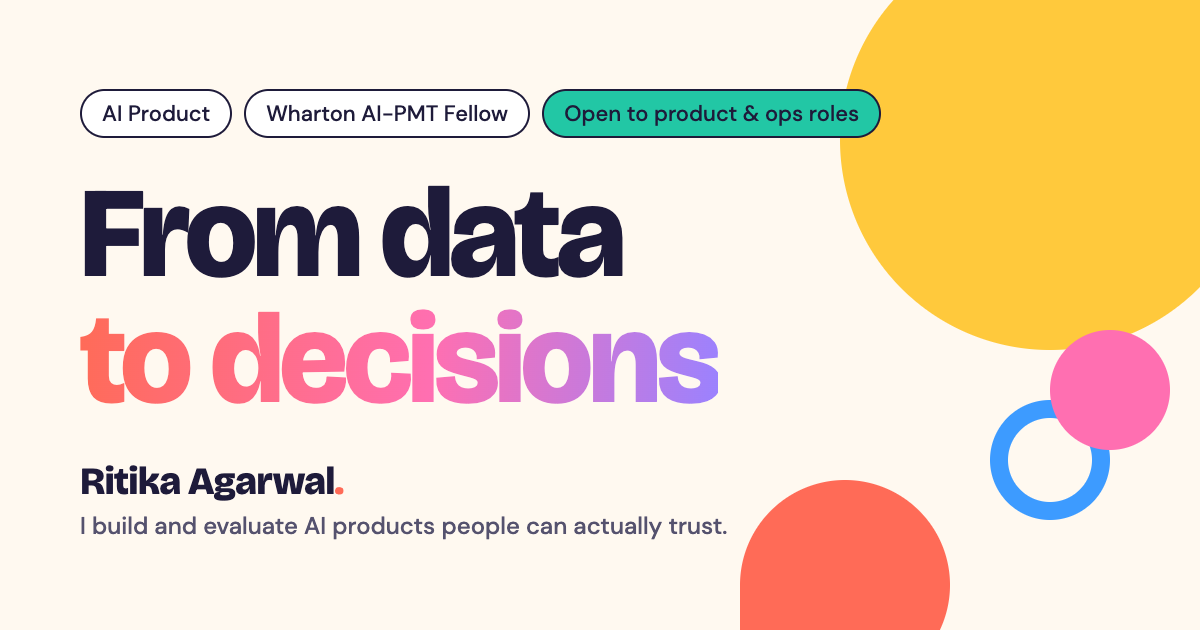
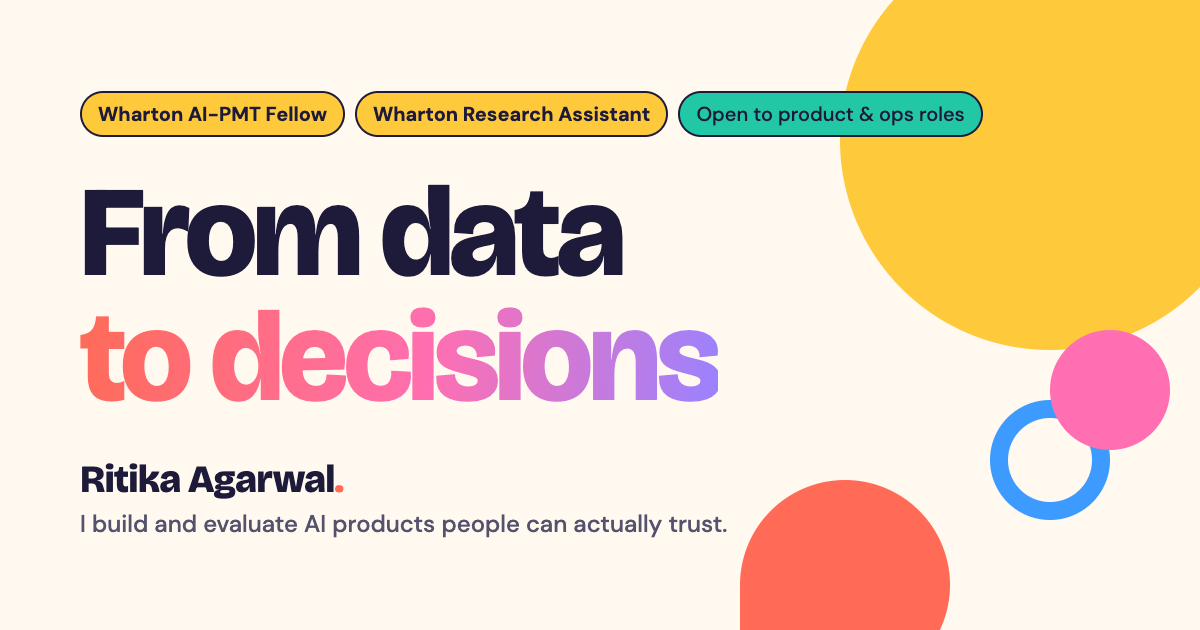
Highlight Wharton in hero tags; add Brand Guideline Scoring Harness project

diff --git a/index.html b/index.html
@@ -4,9 +4,9 @@
 <meta charset="UTF-8">
 <meta name="viewport" content="width=device-width, initial-scale=1.0">
 <title>Ritika Agarwal, From Data to Decisions</title>
-<meta name="description" content="I build and evaluate AI products, turning messy real-world data into tools people can actually trust. MSE student at Penn (CIS, AI), Wharton AI-PMT Fellow, and SIIM CAIMI26 Best Research Poster winner, with nearly 5 years at VMware and EY.">
+<meta name="description" content="I build and evaluate AI products, turning messy real-world data into tools people can actually trust. MSE student at Penn (CIS, AI), Wharton AI-PMT Fellow and Research Assistant, and SIIM CAIMI26 Best Research Poster winner, with nearly 5 years at VMware and EY.">
 <meta property="og:title" content="Ritika Agarwal, From Data to Decisions">
-<meta property="og:description" content="I build and evaluate AI products, turning messy real-world data into tools people can actually trust. MSE student at Penn (CIS, AI), Wharton AI-PMT Fellow, and SIIM CAIMI26 Best Research Poster winner, with nearly 5 years at VMware and EY.">
+<meta property="og:description" content="I build and evaluate AI products, turning messy real-world data into tools people can actually trust. MSE student at Penn (CIS, AI), Wharton AI-PMT Fellow and Research Assistant, and SIIM CAIMI26 Best Research Poster winner, with nearly 5 years at VMware and EY.">
 <meta property="og:url" content="https://riaga1998.github.io/">
 <meta property="og:type" content="website">
 <meta property="og:image" content="https://riaga1998.github.io/preview.png">
@@ -15,7 +15,7 @@
 <meta property="og:image:alt" content="Ritika Agarwal: From data to decisions">
 <meta name="twitter:card" content="summary_large_image">
 <meta name="twitter:title" content="Ritika Agarwal, From Data to Decisions">
-<meta name="twitter:description" content="I build and evaluate AI products, turning messy real-world data into tools people can actually trust. MSE student at Penn (CIS, AI), Wharton AI-PMT Fellow, and SIIM CAIMI26 Best Research Poster winner, with nearly 5 years at VMware and EY.">
+<meta name="twitter:description" content="I build and evaluate AI products, turning messy real-world data into tools people can actually trust. MSE student at Penn (CIS, AI), Wharton AI-PMT Fellow and Research Assistant, and SIIM CAIMI26 Best Research Poster winner, with nearly 5 years at VMware and EY.">
 <meta name="twitter:image" content="https://riaga1998.github.io/preview.png">
 <link href="https://fonts.googleapis.com/css2?family=Bricolage+Grotesque:opsz,wght@12..96,500;12..96,700;12..96,800&family=DM+Sans:opsz,wght@9..40,400;9..40,500;9..40,700&display=swap" rel="stylesheet">
 <link rel="stylesheet" href="style.css">
@@ -50,14 +50,14 @@
 <section class="hero">
   <div class="hero-shapes" aria-hidden="true"><span class="sh sh-c"></span><span class="sh sh-d"></span></div>
   <div class="hero-meta">
-    <span class="hero-meta-text">AI Product</span>
-    <span class="hero-meta-text">Wharton AI-PMT Fellow</span>
+    <span class="hero-meta-text wh">Wharton AI-PMT Fellow</span>
+    <span class="hero-meta-text wh">Wharton Research Assistant</span>
     <span class="hero-meta-text">UPenn MSE '27</span>
     <span class="hero-meta-text open">Open to product &amp; ops roles</span>
   </div>
   <h1 class="hero-title">From data<br><em>to decisions</em></h1>
   <div class="hero-bottom">
-    <p class="hero-desc">I build and evaluate AI products, turning messy real-world data into tools people can actually trust. MSE student at Penn (CIS, AI concentration) and a Wharton AI-PMT Fellow, with nearly 5 years at VMware and EY behind me. My work spans clinical ML research, LLM products, and enterprise SaaS, and I care most about the part everyone skips: honest evaluation.</p>
+    <p class="hero-desc">I build and evaluate AI products, turning messy real-world data into tools people can actually trust. MSE student at Penn (CIS, AI concentration), a Wharton AI-PMT Fellow and a Research Assistant at the Wharton School, with nearly 5 years at VMware and EY behind me. My work spans clinical ML research, LLM products, and enterprise SaaS, and I care most about the part everyone skips: honest evaluation.</p>
     <div class="hero-right-block">
       <div class="hero-photo-wrap">
         <img class="hero-photo" src="images/headshot.jpg" width="220" height="174" alt="Ritika Agarwal">
@@ -146,7 +146,7 @@
         </div>
       </a>
       <div class="proj-card featured">
-        <div class="proj-num">05</div>
+        <div class="proj-num">06</div>
         <div class="proj-type">Research · Data Engineering</div>
         <div class="proj-name">Histology Image Compression</div>
         <div class="proj-status live">Best Research Poster, 1st Place · SIIM CAIMI26</div>
@@ -157,7 +157,7 @@
         </div>
       </div>
     </div>
-    <div class="more-row reveal"><a class="about-more" href="projects.html">See all 10 projects →</a></div>
+    <div class="more-row reveal"><a class="about-more" href="projects.html">See all 11 projects →</a></div>
   </div>
 </div>
 

diff --git a/projects.html b/projects.html
@@ -59,7 +59,7 @@
 <div class="section-block" id="projects">
   <div class="chapter">
     <div class="chapter-left"><span class="chapter-num">01</span><span class="chapter-name">All <em>Projects</em></span></div>
-    <span class="chapter-desc">10 projects · AI product, ML research, data engineering, bioinformatics, systems, community infrastructure</span>
+    <span class="chapter-desc">11 projects · AI product, evaluation, ML research, data engineering, bioinformatics, systems, community infrastructure</span>
   </div>
   <div class="sec">
     <div class="proj-grid reveal">
@@ -114,6 +114,17 @@
 
       <div class="proj-card featured">
         <div class="proj-num">05</div>
+        <div class="proj-type">AI Evaluation · LLM-as-Judge · Research</div>
+        <div class="proj-name">Brand Guideline Scoring Harness</div>
+        <div class="proj-status live">Active · Wharton, advised by Prof. Kartik Hosanagar</div>
+        <p class="proj-desc">A Python harness that scores AI-written marketing posts against a company's brand guidelines. Rules that can be counted, like exclamation marks, sentence case and reading level, run as code. Tone and judgment calls go to a Claude judge that has to quote the post as evidence, and code checks the quote is really in the post. When the judge missed a claim the brand forbids, I had code pull out every sentence that could break the rule and added a severity cap so one clear violation limits the score. Now extending it to work for any brand: it drafts a rubric from a brand's documents, with every rule tied to a quote from the source and a person approving it before use.</p>
+        <div class="proj-foot">
+          <div class="proj-tags"><span class="proj-tag">Python</span><span class="proj-tag">Claude API</span><span class="proj-tag">LLM-as-Judge</span><span class="proj-tag">Evaluation</span></div>
+        </div>
+      </div>
+
+      <div class="proj-card featured">
+        <div class="proj-num">06</div>
         <div class="proj-type">Research · Data Engineering</div>
         <div class="proj-name">Histology Image Compression</div>
         <div class="proj-status live">Best Research Poster, 1st Place · SIIM CAIMI26</div>
@@ -124,7 +135,7 @@
       </div>
 
       <a class="proj-card featured" href="https://jobs.iscss.org/" target="_blank" rel="noopener">
-        <div class="proj-num">06</div>
+        <div class="proj-num">07</div>
         <div class="proj-type">Web Infrastructure · Community · Live Demo</div>
         <div class="proj-name">ISCSS Jobs Board <span class="proj-live">Live Demo ↗</span></div>
         <div class="proj-status live">Went live Nov 9, 2026 · CSS Lab, UPenn</div>
@@ -136,7 +147,7 @@
       </a>
 
       <a class="proj-card" href="https://github.com/Riaga1998/Gemz" target="_blank" rel="noopener">
-        <div class="proj-num">07</div>
+        <div class="proj-num">08</div>
         <div class="proj-type">ML Research · Healthcare</div>
         <div class="proj-name">Gemcitabine Resistance Prediction</div>
         <div class="proj-status">CIS 5200, UPenn</div>
@@ -148,7 +159,7 @@
       </a>
 
       <div class="proj-card">
-        <div class="proj-num">08</div>
+        <div class="proj-num">09</div>
         <div class="proj-type">Systems · C</div>
         <div class="proj-name">PennOS</div>
         <div class="proj-status">CIS 5480, UPenn · 4-person team</div>
@@ -160,7 +171,7 @@
       </div>
 
       <a class="proj-card" href="https://www.tandfonline.com/doi/full/10.1080/08839514.2021.1975881" target="_blank" rel="noopener">
-        <div class="proj-num">09</div>
+        <div class="proj-num">10</div>
         <div class="proj-type">ML · Patent Application · Publication</div>
         <div class="proj-name">L-Dopa Response Prediction</div>
         <div class="proj-status">Major project · Amity University</div>
@@ -173,7 +184,7 @@
 
       <a class="proj-card wide" href="papers/brassica-mir156-mir172.pdf" target="_blank" rel="noopener">
         <div class="proj-wide-meta">
-          <div class="proj-num">10</div>
+          <div class="proj-num">11</div>
           <div class="proj-type">Bioinformatics · Publication</div>
           <div class="proj-name">Brassica miRNA Evolution <span class="proj-live">PDF ↗</span></div>
           <div class="proj-status">Research internship · JNU</div>

diff --git a/style.css b/style.css
@@ -86,6 +86,7 @@ nav.scrolled{box-shadow:0 4px 24px rgba(30,27,58,.08)}
 .hero-meta{display:flex;flex-wrap:wrap;align-items:center;gap:.55rem;margin-bottom:1.8rem;opacity:0;animation:fadeUp .7s .1s forwards}
 .hero-meta-text{font-size:.8rem;font-weight:500;color:var(--ink);background:#fff;border:1.5px solid var(--ink);padding:.32rem .85rem;border-radius:999px;white-space:nowrap}
 .hero-meta-text.open{background:var(--mint)}
+.hero-meta-text.wh{background:var(--sun);font-weight:700}
 .hero-title{font-family:var(--font-display);font-size:clamp(3.2rem,7.4vw,6.8rem);font-weight:800;line-height:.98;letter-spacing:-.035em;margin-bottom:1.8rem;color:var(--ink);opacity:0;animation:fadeUp .8s .25s forwards}
 .hero-title em{font-style:normal;background:linear-gradient(95deg,var(--coral) 0%,var(--pink) 55%,var(--violet) 100%);-webkit-background-clip:text;background-clip:text;-webkit-text-fill-color:transparent;color:var(--coral-d);padding-bottom:.08em}
 .hero-desc{font-size:1.08rem;color:var(--ink);line-height:1.75;max-width:520px;margin-bottom:1.6rem}
